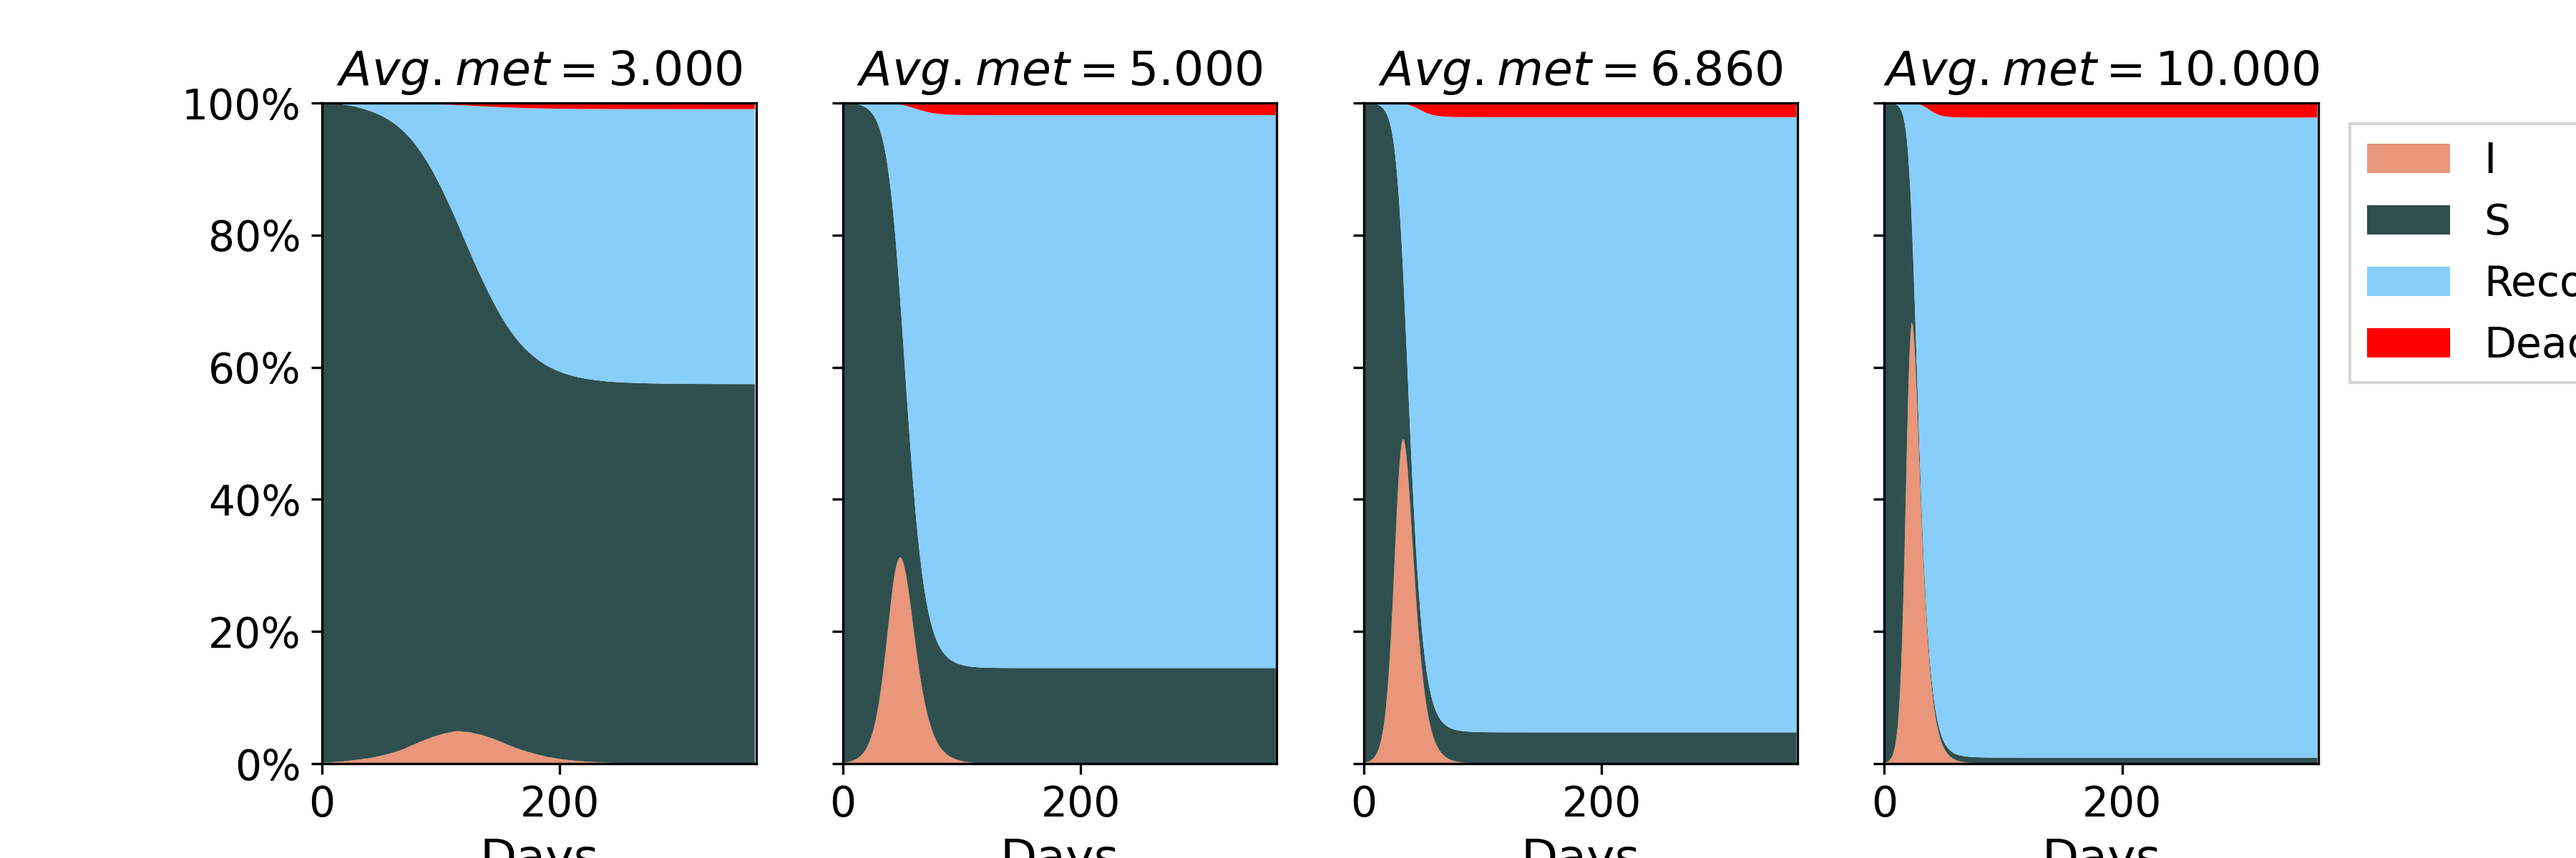
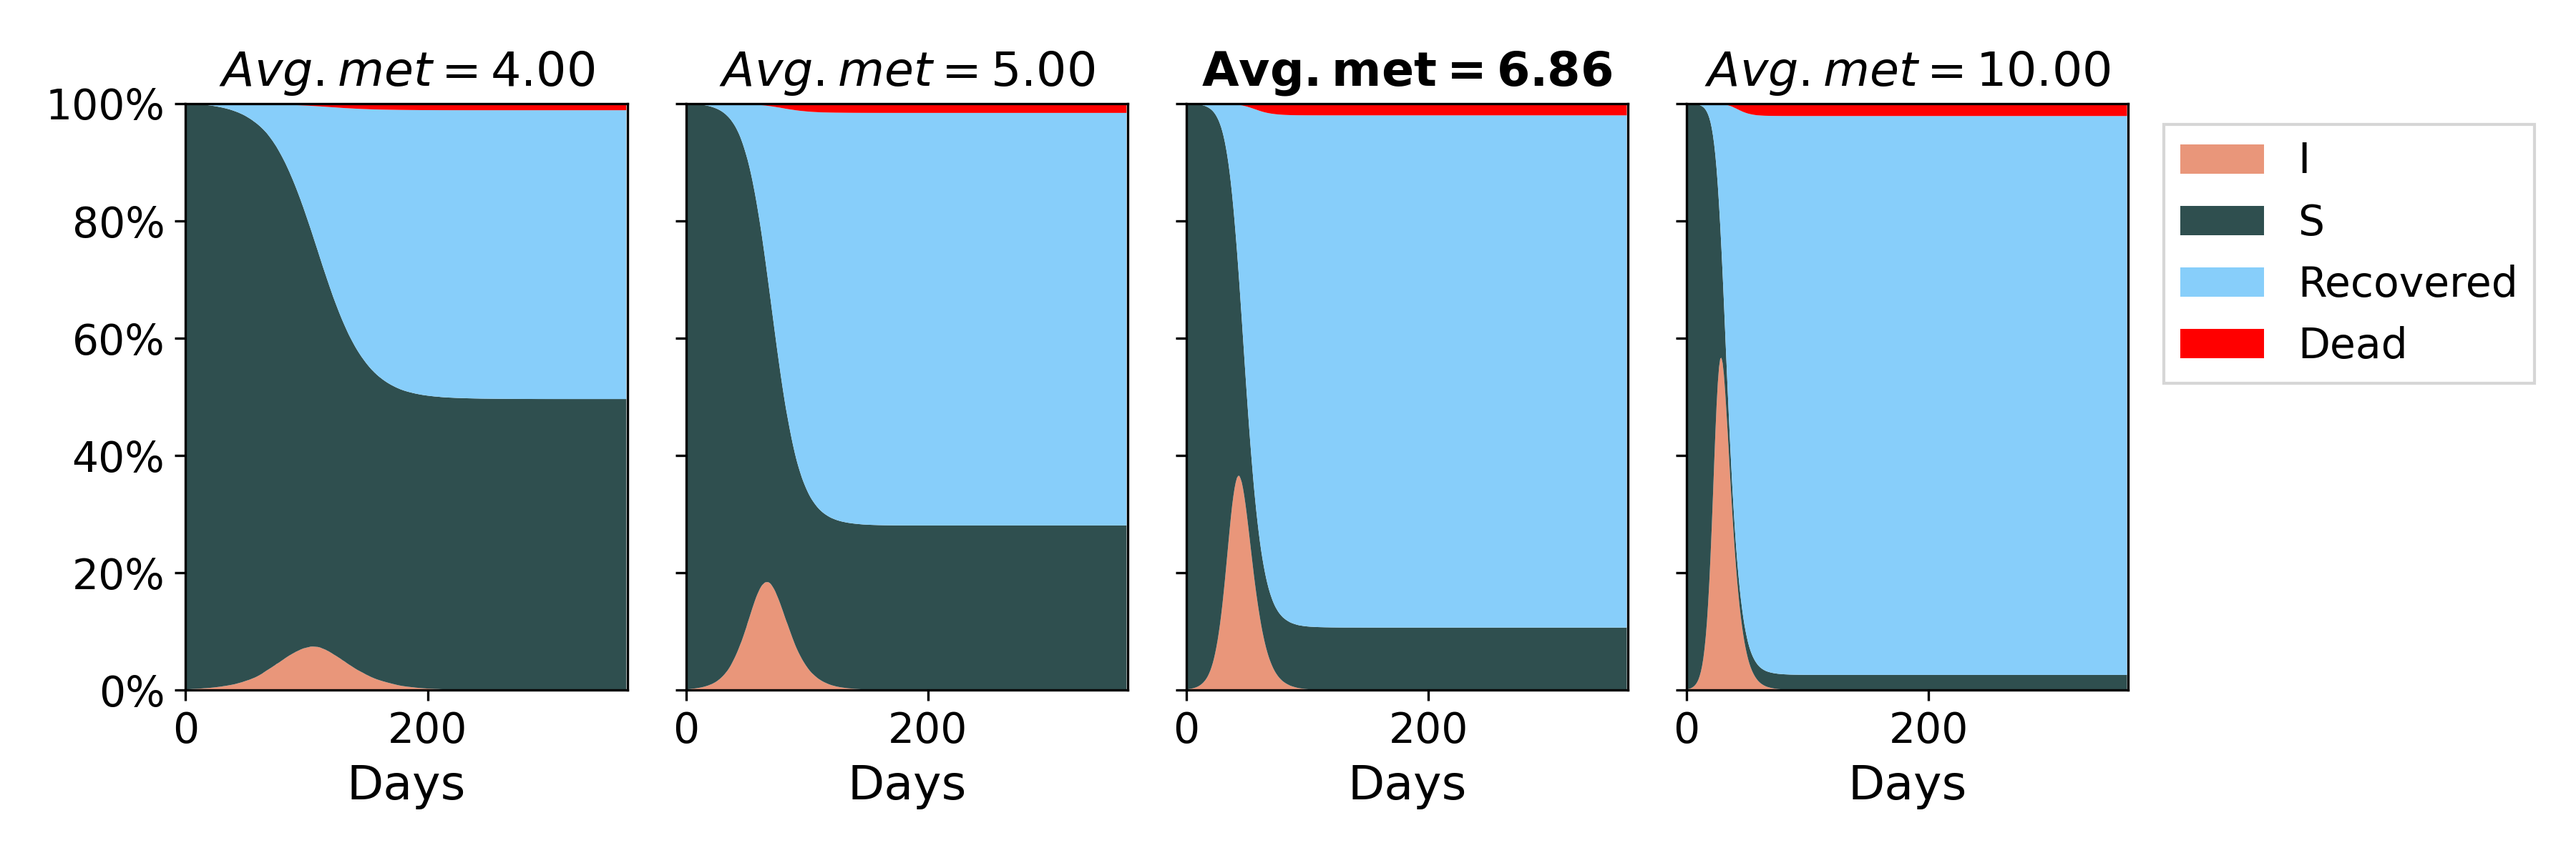
more plots

diff --git a/scenarios.py b/scenarios.py
@@ -16,6 +16,8 @@ import pandas as pd
 
 from simulation import simulate, repeat_simulate
 
+n_repeats = 5
+
 plot_path = 'plots'
 
 def scenario1():
@@ -48,7 +50,7 @@ def scenario1():
     plt.show()
 
 def scenario2():
-    np.random.seed(7)
+
     # SEIR model.
     sampler = Sampler()  # crit_prob=0.0, symp_prob=1.0, fraction_symp_out=1.0
     # We have S -> E (latent/incubation period) -> I_symp -> R
@@ -59,11 +61,12 @@ def scenario2():
     country = Country([copenhagen])
 
     contageon_probs = [0.02, 0.025, 0.04, 0.05]
-    average_people_mets = [3, 5, 6.86, 10]
+    average_people_mets = [4, 5, 6.86, 10]
 
     fig, axs = plt.subplots(1, len(contageon_probs), squeeze=True, sharey='row', figsize=(12, 4))
     for i, (ax, contageon_prob) in enumerate(zip(axs, contageon_probs)):
         sampler.contagion_prob = contageon_prob
+        np.random.seed(7)
         result = simulate(country)
         Plotter.plot_SIR(result, ax=ax)
         ax.set_title(f'$p={contageon_prob:.3f}$')
@@ -71,22 +74,60 @@ def scenario2():
         if i == len(contageon_probs)-1:
             ax.legend(['I', 'S', 'Recovered', 'Dead'], loc='upper center',
                       bbox_to_anchor=(1.5, 1), fancybox=False, shadow=False, ncol=1)
+        if i == 2:
+            ax.set_title(f'$\\bf p={contageon_prob:.3f}$')
+    plt.tight_layout()
     plt.savefig(os.path.join(plot_path, '2_SEIR_hygene.png'), dpi=300)
-    plt.tight_layout()  # rect=[0, 0.03, 1, 0.95]
     plt.show()
 
+    fig, axs = plt.subplots(1, len(contageon_probs), squeeze=True, sharey='row', figsize=(12, 4))
+    for i, (ax, contageon_prob) in enumerate(zip(axs, contageon_probs)):
+        sampler.contagion_prob = contageon_prob
+        np.random.seed(7)
+        result = repeat_simulate(country, n_repeats=n_repeats)
+        Plotter.plot_intervals(result['I_crit'], ax=ax, colorbar=i==len(contageon_probs)-1)
+        ax.set_title(f'$p={contageon_prob:.3f}$')
+        ax.set_xlabel('Days')
+        if i == 0:
+            ax.set_ylabel('# Hospitalized ($I_{crit}$)')
+        if i == 2:
+            ax.set_title(f'$\\bf p={contageon_prob:.3f}$')
+    plt.tight_layout()
+    plt.savefig(os.path.join(plot_path, '2_SEIR_hygene_hospitalized.png'), dpi=300)
+    plt.show()
+
+    sampler.contagion_prob = 0.04  # Set back to default
     fig, axs = plt.subplots(1, len(average_people_mets), squeeze=True, sharey='row', figsize=(12, 4))
     for i, (ax, avg_people_met_pr_day) in enumerate(zip(axs, average_people_mets)):
         sampler.avg_people_met_pr_day = avg_people_met_pr_day
+        np.random.seed(7)
         result = simulate(country)
         Plotter.plot_SIR(result, ax=ax)
-        ax.set_title(f'$Avg. met ={avg_people_met_pr_day:.3f}$')
+        ax.set_title(f'$Avg. met ={avg_people_met_pr_day:.2f}$')
+        if i == 2:
+            ax.set_title(f'$\\bf Avg. met ={avg_people_met_pr_day:.2f}$')
         ax.set_xlabel('Days')
         if i == len(average_people_mets)-1:
             ax.legend(['I', 'S', 'Recovered', 'Dead'], loc='upper center',
                       bbox_to_anchor=(1.5, 1), fancybox=False, shadow=False, ncol=1)
-    plt.savefig(os.path.join(plot_path, '2_SEIR_distancing.png'), dpi=300)
     plt.tight_layout()  # rect=[0, 0.03, 1, 0.95]
+    plt.savefig(os.path.join(plot_path, '2_SEIR_distancing.png'), dpi=300)
+    plt.show()
+
+    fig, axs = plt.subplots(1, len(contageon_probs), squeeze=True, sharey='row', figsize=(12, 4))
+    for i, (ax, avg_people_met_pr_day) in enumerate(zip(axs, average_people_mets)):
+        sampler.avg_people_met_pr_day = avg_people_met_pr_day
+        np.random.seed(7)
+        result = repeat_simulate(country, n_repeats=n_repeats)
+        Plotter.plot_intervals(result['I_crit'], ax=ax, colorbar=i==len(contageon_probs)-1)
+        ax.set_title(f'$Avg. met ={avg_people_met_pr_day:.2f}$')
+        ax.set_xlabel('Days')
+        if i == 0:
+            ax.set_ylabel('# Hospitalized')
+        if i == 2:
+            ax.set_title(f'$\\bf Avg. met ={avg_people_met_pr_day:.2f}$')
+    plt.tight_layout()
+    plt.savefig(os.path.join(plot_path, '2_SEIR_distancing_hospitalized.png'), dpi=300)
     plt.show()
 
     if False:  # 2D grid plots

diff --git a/Plotter.py b/Plotter.py
@@ -83,7 +83,7 @@ def plot_each_group(PI):
             ax[i][j].legend()
 
 
-def plot_intervals(y, ax=None):
+def plot_intervals(y, ax=None, colorbar=True):
     if ax is None:
         fig, ax = plt.subplots(1, 1, figsize=(12, 8))
     x = range(y.shape[-1])
@@ -97,11 +97,11 @@ def plot_intervals(y, ax=None):
     for i in reversed(range(len(y))):
         p = i / (len(y) - 1) * 100
         ax.fill_between(x, *y[[0, i], :], color=cmap(norm(p)))
-    cbar = plt.colorbar(cm.ScalarMappable(norm=norm, cmap=cmap.reversed()), ax=ax)
     # ax.legend(['median'], loc='best')
     ax.set_xlabel('Day')
-
-    cbar.ax.get_yaxis().labelpad = 15
-    cbar.ax.set_ylabel('Risk', rotation=270)
-    cbar.ax.get_yaxis().set_major_formatter(mtick.PercentFormatter())
-    cbar.ax.plot([0, 100], [50] * 2, 'k-', lw=0.5)
+    if colorbar:
+        cbar = plt.colorbar(cm.ScalarMappable(norm=norm, cmap=cmap.reversed()), ax=ax)
+        cbar.ax.get_yaxis().labelpad = 15
+        cbar.ax.set_ylabel('Risk', rotation=270)
+        cbar.ax.get_yaxis().set_major_formatter(mtick.PercentFormatter())
+        cbar.ax.plot([0, 100], [50] * 2, 'k-', lw=0.5)
